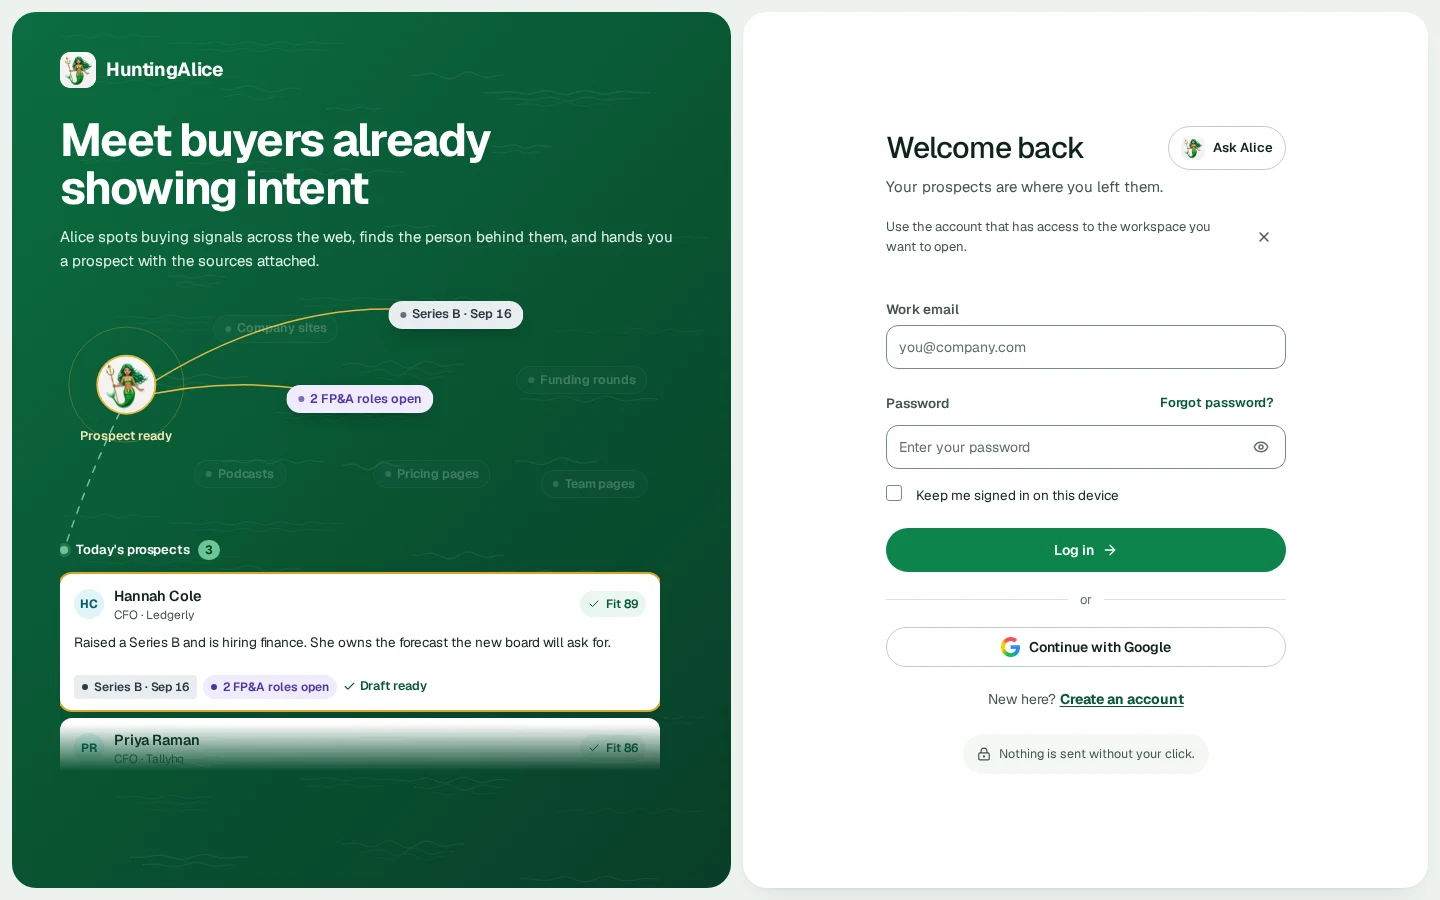
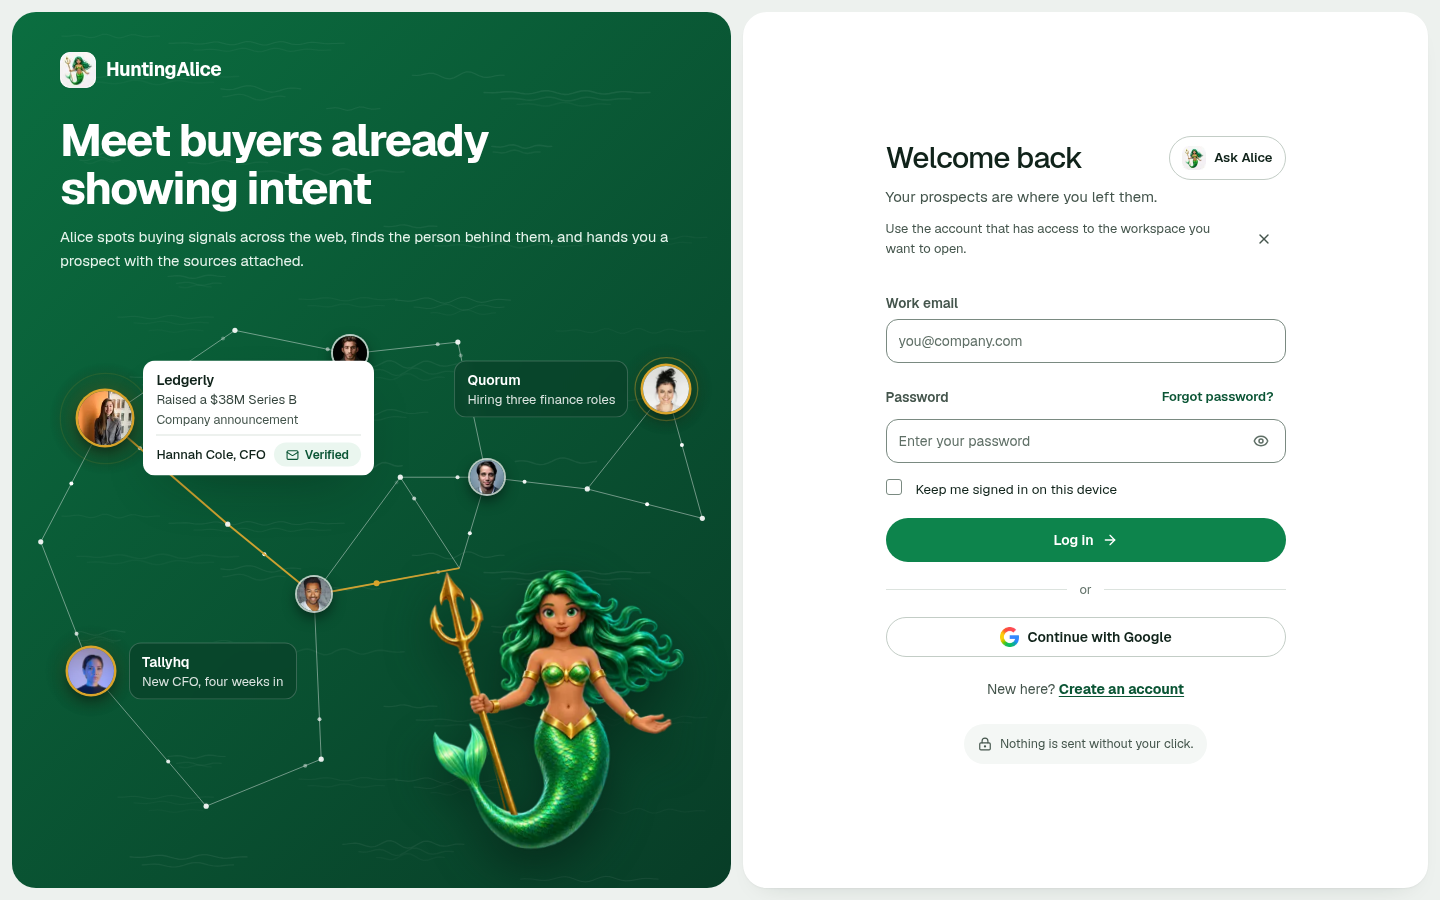
fix(projects): refresh HuntingAlice main login capture

diff --git a/lib/projects.ts b/lib/projects.ts
@@ -108,7 +108,7 @@ export const projects: readonly Project[] = [
     gallery: [
       {
         src: "/images/projects/huntingalice-main.webp",
-        alt: "HuntingAlice public sign-in page for the B2B research and prospecting workspace",
+        alt: "HuntingAlice login page with a green prospecting illustration and email/password sign-in form",
         width: 1440,
         height: 900
       }
